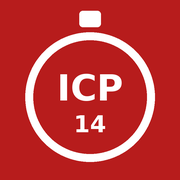
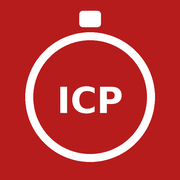
v1.1.0 : Prénom/Nom séparés, ajout de participant en cours de session, annonce 30 s au Luc Léger, retour à la session en fin d'épreuve, PDF simplifié, suppression des références Pompiers 14
Claude-Session: https://claude.ai/code/session_019JcrreiBWbQP3sJCEii8Fr

Changed region(s): [[0.3333, 0.3889, 0.6944, 0.75]]

diff --git a/app.js b/app.js
@@ -1,8 +1,8 @@
-/* ICP Pompiers 14 — web app (PWA) hors ligne
+/* ICP — Indicateurs de Condition Physique — web app (PWA) hors ligne
    Données stockées uniquement sur l'appareil (localStorage). */
 'use strict';
 
-const VERSION = '1.0.0';
+const VERSION = '1.1.0';
 const STORE_KEY = 'icp14.v1';
 
 /* ---------- Épreuves ---------- */
@@ -42,6 +42,9 @@ function load() {
       const d = JSON.parse(raw);
       d.settings = Object.assign({}, DEFAULT_SETTINGS, d.settings || {});
       d.sessions = d.sessions || [];
+      d.sessions.forEach(se => se.participants.forEach(p => {
+        if (p.prenom == null) { const parts = (p.nom || '').split(' '); p.prenom = parts.shift() || ''; p.nom = parts.join(' '); }
+      }));
       return d;
     }
   } catch (e) { console.error(e); }
@@ -212,7 +215,7 @@ function render() {
 /* ---------- Accueil ---------- */
 function home() {
   const list = [...DB.sessions].sort((a, b) => (b.date || '').localeCompare(a.date || '') || b.created - a.created);
-  return header('ICP Pompiers 14', null, `<button class="hbtn" onclick="A.go('settings')">Réglages</button>`) + `
+  return header('ICP', null, `<button class="hbtn" onclick="A.go('settings')">Réglages</button>`) + `
   <main>
     <button class="btn" onclick="A.go('editSession')">+ Nouvelle session</button>
     <div style="height:14px"></div>
@@ -245,7 +248,7 @@ function settings() {
       <label class="field">Augmentation par palier (km/h)<input id="st-inc" type="number" inputmode="decimal" step="0.1" value="${s.inc}"></label>
       <label class="field">Durée d'un palier (s)<input id="st-palier" type="number" inputmode="numeric" step="1" value="${s.palierSec}"></label>
       <div class="btns"><button class="btn" onclick="A.saveSettings()">Enregistrer</button>
-      <button class="btn grey" onclick="A.resetSettings()">Valeurs SDIS</button></div>
+      <button class="btn grey" onclick="A.resetSettings()">Valeurs par défaut</button></div>
     </div>
     <div class="card">
       <h2>Test du son</h2>
@@ -270,7 +273,7 @@ function saveSettings() {
   Object.assign(DB.settings, n); save(); toast('Réglages enregistrés'); render();
 }
 function resetSettings() {
-  if (!confirm('Revenir aux valeurs du règlement SDIS ?')) return;
+  if (!confirm('Revenir aux valeurs par défaut (règlement) ?')) return;
   DB.settings = { ...DEFAULT_SETTINGS }; save(); render();
 }
 function testSound() {
@@ -280,41 +283,77 @@ function testSound() {
 }
 
 /* ---------- Création / modification de session ---------- */
+function fullName(p) { return `${p.prenom || ''} ${p.nom || ''}`.trim(); }
+function shortName(p) { return `${p.prenom || ''}${p.nom ? ' ' + p.nom.trim().charAt(0).toUpperCase() + '.' : ''}`.trim(); }
+function cleanName(v) { return String(v || '').trim().replace(/\s+/g, ' '); }
 function editSession() {
   const s = VIEW.sid ? session() : null;
   const today = new Date().toISOString().slice(0, 10);
+  if (!VIEW.rows) {
+    VIEW.rows = s ? s.participants.map(p => ({ id: p.id, prenom: p.prenom, nom: p.nom })) : [];
+    VIEW.rows.push({ prenom: '', nom: '' });
+    VIEW.form = { date: s ? s.date : today, lieu: s ? s.lieu : '', evaluateur: s ? s.evaluateur : '' };
+  }
+  const f = VIEW.form;
   return header(s ? 'Modifier la session' : 'Nouvelle session', s ? `A.go('sessionView',{sid:'${s.id}'})` : "A.go('home')") + `
   <main><div class="card">
-    <label class="field">Date<input id="f-date" type="date" value="${s ? s.date : today}"></label>
-    <label class="field">Lieu<input id="f-lieu" type="text" value="${esc(s ? s.lieu : '')}" placeholder="ex. CIS Caen"></label>
-    <label class="field">Évaluateur<input id="f-eval" type="text" value="${esc(s ? s.evaluateur : '')}" placeholder="Prénom Nom"></label>
-    <label class="field">Participants (un « Prénom Nom » par ligne)
-      <textarea id="f-parts" placeholder="Jean Dupont&#10;Marie Martin">${esc(s ? s.participants.map(p => p.nom).join('\n') : '')}</textarea></label>
-    <button class="btn" onclick="A.saveSession()">${s ? 'Enregistrer' : 'Créer la session'}</button>
-    ${s ? `<div style="height:10px"></div><button class="btn grey" onclick="A.deleteSession()">Supprimer la session</button>` : ''}
-  </div></main>`;
+    <label class="field">Date<input type="date" value="${esc(f.date)}" oninput="A.setForm('date',this.value)"></label>
+    <label class="field">Lieu<input type="text" value="${esc(f.lieu)}" placeholder="ex. CIS Caen" oninput="A.setForm('lieu',this.value)"></label>
+    <label class="field">Évaluateur<input type="text" value="${esc(f.evaluateur)}" placeholder="Prénom Nom" oninput="A.setForm('evaluateur',this.value)"></label>
+  </div>
+  <div class="card">
+    <h2>Participants</h2>
+    <div class="row muted" style="font-size:13px;margin-bottom:4px"><span class="grow">Prénom</span><span class="grow">Nom</span><span style="width:40px"></span></div>
+    ${VIEW.rows.map((r, i) => `<div class="row" style="margin-bottom:8px">
+      <input class="pin grow" id="pr-${i}" type="text" autocapitalize="words" value="${esc(r.prenom)}" placeholder="Prénom" oninput="A.setRow(${i},'prenom',this.value)">
+      <input class="pin grow" id="nm-${i}" type="text" autocapitalize="words" value="${esc(r.nom)}" placeholder="Nom" oninput="A.setRow(${i},'nom',this.value)" onkeydown="if(event.key==='Enter'){event.preventDefault();A.addRow(${i})}">
+      <button class="delrow" onclick="A.delRow(${i})" aria-label="Supprimer">×</button></div>`).join('')}
+    <button class="btn secondary" onclick="A.addRow()">+ Ajouter un participant</button>
+  </div>
+  <button class="btn" onclick="A.saveSession()">${s ? 'Enregistrer' : 'Créer la session'}</button>
+  ${s ? `<div style="height:10px"></div><button class="btn grey" onclick="A.deleteSession()">Supprimer la session</button>` : ''}
+  </main>`;
 }
+function setForm(k, v) { VIEW.form[k] = v; }
+function setRow(i, k, v) { VIEW.rows[i][k] = v; }
+function addRow(after) {
+  const i = after == null ? VIEW.rows.length : after + 1;
+  VIEW.rows.splice(i, 0, { prenom: '', nom: '' }); render();
+  const el = $('#pr-' + i); if (el) el.focus();
+}
+function delRow(i) { VIEW.rows.splice(i, 1); if (!VIEW.rows.length) VIEW.rows.push({ prenom: '', nom: '' }); render(); }
 function saveSession() {
-  const names = $('#f-parts').value.split('\n').map(x => x.trim().replace(/\s+/g, ' ')).filter(Boolean);
-  if (!names.length) { toast('Ajoute au moins un participant'); return; }
+  const rows = VIEW.rows.map(r => ({ id: r.id, prenom: cleanName(r.prenom), nom: cleanName(r.nom) })).filter(r => r.prenom || r.nom);
+  if (!rows.length) { toast('Ajoute au moins un participant'); return; }
   let s = VIEW.sid ? session() : null;
-  if (!s) {
-    s = { id: uid(), created: Date.now(), participants: [], results: {} };
-    DB.sessions.push(s);
-  }
-  const old = s.participants;
-  const pool = [...old];
-  const parts = names.map(nom => {
-    const i = pool.findIndex(p => p.nom === nom);
-    if (i >= 0) return pool.splice(i, 1)[0];
-    return { id: uid(), nom };
-  });
-  const removedWithResults = pool.filter(p => EPREUVES.some(e => s.results[e.id] && s.results[e.id][p.id]));
-  if (removedWithResults.length && !confirm(`Supprimer aussi les résultats de : ${removedWithResults.map(p => p.nom).join(', ')} ?`)) return;
-  pool.forEach(p => EPREUVES.forEach(e => { if (s.results[e.id]) delete s.results[e.id][p.id]; }));
-  s.participants = parts;
-  s.date = $('#f-date').value; s.lieu = $('#f-lieu').value.trim(); s.evaluateur = $('#f-eval').value.trim();
+  const isNew = !s;
+  if (isNew) s = { id: uid(), created: Date.now(), participants: [], results: {} };
+  const keep = new Set(rows.filter(r => r.id).map(r => r.id));
+  const removed = s.participants.filter(p => !keep.has(p.id));
+  const removedWithResults = removed.filter(p => EPREUVES.some(e => s.results[e.id] && s.results[e.id][p.id]));
+  if (removedWithResults.length && !confirm(`Supprimer aussi les résultats de : ${removedWithResults.map(fullName).join(', ')} ?`)) return;
+  removed.forEach(p => EPREUVES.forEach(e => { if (s.results[e.id]) delete s.results[e.id][p.id]; }));
+  s.participants = rows.map(r => ({ id: r.id || uid(), prenom: r.prenom, nom: r.nom }));
+  s.date = VIEW.form.date; s.lieu = cleanName(VIEW.form.lieu); s.evaluateur = cleanName(VIEW.form.evaluateur);
+  if (isNew) DB.sessions.push(s);
   save(); go('sessionView', { sid: s.id });
+}
+/* Ajout rapide d'un participant à une session en cours */
+function addPersonSheet() {
+  openSheet(`<h3>Ajouter un participant</h3>
+    <label class="field">Prénom<input id="ap-prenom" type="text" autocapitalize="words"></label>
+    <label class="field">Nom<input id="ap-nom" type="text" autocapitalize="words" onkeydown="if(event.key==='Enter')A.addPerson()"></label>
+    <button class="btn" onclick="A.addPerson()">Ajouter</button>
+    <button class="btn grey" onclick="A.closeSheet()">Annuler</button>`);
+  setTimeout(() => { const el = $('#ap-prenom'); if (el) el.focus(); }, 50);
+}
+function addPerson() {
+  const prenom = cleanName($('#ap-prenom').value), nom = cleanName($('#ap-nom').value);
+  if (!prenom && !nom) { toast('Saisis au moins un prénom ou un nom'); return; }
+  const s = session(), p = { id: uid(), prenom, nom };
+  s.participants.push(p); save();
+  if (VIEW.sel) VIEW.sel[p.id] = true;
+  closeSheet(); toast(fullName(p) + ' ajouté(e)'); render();
 }
 function deleteSession() {
   if (!confirm('Supprimer définitivement cette session et tous ses résultats ?')) return;
@@ -340,6 +379,8 @@ function sessionView() {
     }).join('')}</div>
     <div style="height:14px"></div>
     <button class="btn" onclick="A.go('synth',{sid:'${s.id}'})">Synthèse et exports</button>
+    <div style="height:10px"></div>
+    <button class="btn secondary" onclick="A.addPersonSheet()">+ Ajouter un participant (${n})</button>
   </main>`;
 }
 
@@ -372,6 +413,10 @@ function pickWave() {
   const sel = VIEW.sel, nb = Object.values(sel).filter(Boolean).length;
   return header(e.nom + ' · vague', `A.go('consigne',{sid:'${s.id}',ep:'${e.id}'})`) + `
   <main>
+    ${s.participants.every(p => r[p.id]) ? `<div class="card" style="background:#e8f5e9">
+      <b>✓ Épreuve terminée pour tous les participants</b>
+      <div style="height:10px"></div>
+      <button class="btn green" onclick="A.go('sessionView',{sid:'${s.id}'})">Retour à l'accueil de la session</button></div>` : ''}
     <div class="row between" style="margin-bottom:8px">
       <span class="muted">${nb} sélectionné${nb > 1 ? 's' : ''}</span>
       <span><button class="btn small grey" onclick="A.selAll(true)">Tous</button>
@@ -381,11 +426,12 @@ function pickWave() {
       const rr = r[p.id];
       return `<div class="pick">
         <input type="checkbox" ${sel[p.id] ? 'checked' : ''} onchange="A.toggleSel('${p.id}',this.checked)">
-        <div class="grow" onclick="A.toggleSel('${p.id}')"><b>${esc(p.nom)}</b>
+        <div class="grow" onclick="A.toggleSel('${p.id}')"><b>${esc(fullName(p))}</b>
         ${rr ? `<div><span class="tag ${rr.status ? 'st' : 'ok'}">${esc(resultLabel(e.id, rr))}</span></div>` : ''}</div>
         <button class="stbtn" onclick="A.statusSheet('${p.id}')">Statut</button>
       </div>`;
-    }).join('')}</div>
+    }).join('')}
+      <button class="btn small secondary" style="margin-top:10px" onclick="A.addPersonSheet()">+ Ajouter un participant</button></div>
     <button class="btn" ${nb ? '' : 'disabled'} onclick="A.startWave()">${e.mode === 'luc' || e.mode === 'chrono' ? 'Démarrer' : 'Saisir les résultats'} (${nb})</button>
   </main>`;
 }
@@ -395,7 +441,7 @@ function toggleSel(pid, val) {
 function selAll(v) { Object.keys(VIEW.sel).forEach(k => VIEW.sel[k] = v); render(); }
 function statusSheet(pid, ep = VIEW.ep, after) {
   const s = session(), p = s.participants.find(x => x.id === pid);
-  openSheet(`<h3>${esc(p.nom)} · ${EP[ep].nom}</h3>
+  openSheet(`<h3>${esc(fullName(p))} · ${EP[ep].nom}</h3>
     ${Object.entries(STATUTS).map(([k, l]) => `<button class="btn secondary" onclick="A.setStatus('${pid}','${ep}','${k}')">${l}</button>`).join('')}
     <button class="btn grey" onclick="A.setStatus('${pid}','${ep}',null)">Effacer le résultat</button>
     <button class="btn grey" onclick="A.closeSheet()">Annuler</button>`);
@@ -429,7 +475,10 @@ function lucStart(ids) {
   for (let k = cfg.countdown; k >= 1; k--) events.push({ at: t0 - k, kind: 'count', n: k });
   events.push({ at: t0, kind: 'start' });
   buildBeeps(cfg).forEach(b => events.push({ at: t0 + b.t, kind: 'beep' }));
-  for (let p = 1; p <= 30; p++) events.push({ at: t0 + palierStart(p, cfg), kind: 'palier', n: p });
+  for (let p = 1; p <= 30; p++) {
+    events.push({ at: t0 + palierStart(p, cfg), kind: 'palier', n: p });
+    if (cfg.palierSec > 30) events.push({ at: t0 + palierStart(p, cfg) + 30, kind: 'half', n: p });
+  }
   events.sort((a, b) => a.at - b.at);
   RUN = { type: 'luc', cfg, t0, events, idx: 0, ids, stops: {}, undo: [], timer: null, raf: null, sid: VIEW.sid, ep: 'luc' };
   if ('speechSynthesis' in window) speechSynthesis.cancel();
@@ -453,8 +502,9 @@ function lucTick() {
       case 'beep':
         tone(ev.at, 880, 0.2); break;
       case 'palier':
-        tone(ev.at, 523, 0.09, 0.7, 'sine'); tone(ev.at + 0.13, 659, 0.12, 0.7, 'sine');
-        setTimeout(() => speak('Palier ' + ev.n), lead + 280); break;
+        setTimeout(() => speak('Palier ' + ev.n), lead); break;
+      case 'half':
+        setTimeout(() => speak('30 secondes'), lead); break;
     }
   }
 }
@@ -516,9 +566,12 @@ function finishRun() {
     openSheet(`<h3>Vague terminée</h3>
       <div class="card" style="box-shadow:none;padding:0">${ids.map(id => {
         const p = s.participants.find(x => x.id === id);
-        return `<div class="list-item"><span class="grow">${esc(p.nom)}</span><b>${esc(resultLabel(ep, r[id]))}</b></div>`;
+        return `<div class="list-item"><span class="grow">${esc(fullName(p))}</span><b>${esc(resultLabel(ep, r[id]))}</b></div>`;
       }).join('')}</div>
-      <button class="btn" onclick="A.closeSheet()">OK</button>`);
+      ${s.participants.every(p => r[p.id])
+        ? `<button class="btn green" onclick="A.closeSheet();A.go('sessionView',{sid:'${sid}'})">Retour à l'accueil de la session</button>
+           <button class="btn grey" onclick="A.closeSheet()">Rester sur l'épreuve</button>`
+        : `<button class="btn" onclick="A.closeSheet()">Vague suivante</button>`}`);
   }, type === 'luc' ? 700 : 0);
 }
 function abortRun() {
@@ -534,7 +587,7 @@ function runnersHtml(stopFn) {
   return `<div class="runners">${VIEW.ids.map(id => {
     const p = s.participants.find(x => x.id === id), st = r[id];
     const lab = st ? (VIEW.ep === 'luc' ? `P${st.palier} · ${fmtTime(st.temps)}` : fmtTime(st.temps)) : '';
-    return `<button class="runner ${st ? 'stopped' : ''}" onclick="A.${stopFn}('${id}')">${esc(p.nom)}${st ? `<small>${lab}</small>` : ''}</button>`;
+    return `<button class="runner ${st ? 'stopped' : ''}" onclick="A.${stopFn}('${id}')">${esc(shortName(p))}${st ? `<small>${lab}</small>` : ''}</button>`;
   }).join('')}</div>`;
 }
 function lucRun() {
@@ -595,7 +648,7 @@ function countEntry() {
     <p class="muted">Nombre maximal de répétitions, saisi à la fin.</p>
     <div class="card">${VIEW.ids.map(id => {
       const p = s.participants.find(x => x.id === id);
-      return `<div class="list-item"><div class="grow"><b>${esc(p.nom)}</b><br>
+      return `<div class="list-item"><div class="grow"><b>${esc(fullName(p))}</b><br>
         <button class="stbtn" onclick="A.statusSheet('${id}')">Statut…</button></div>
         <div class="counter"><button onclick="A.inc('${id}',-1)">−</button>
         <input id="c-${id}" type="number" inputmode="numeric" min="0" value="${VIEW.vals[id]}" oninput="A.setVal('${id}',this.value)">
@@ -632,7 +685,7 @@ function lengthEntry() {
     <p class="muted">En cm, à 0,5 cm près, à partir de 0. 2 essais max, le meilleur est retenu.</p>
     <div class="card">${VIEW.ids.map(id => {
       const p = s.participants.find(x => x.id === id);
-      return `<div class="list-item essai"><div class="grow"><b>${esc(p.nom)}</b><br>
+      return `<div class="list-item essai"><div class="grow"><b>${esc(fullName(p))}</b><br>
         <button class="stbtn" onclick="A.statusSheet('${id}')">Statut…</button></div>
         <input type="text" inputmode="decimal" placeholder="Essai 1" value="${VIEW.vals[id].e1}" oninput="A.setEssai('${id}','e1',this.value)">
         <input type="text" inputmode="decimal" placeholder="Essai 2" value="${VIEW.vals[id].e2}" oninput="A.setEssai('${id}','e2',this.value)">
@@ -682,7 +735,7 @@ function synth() {
     <p class="muted">${esc(fmtDate(s.date))}${s.lieu ? ' · ' + esc(s.lieu) : ''}${s.evaluateur ? ' · Évaluateur : ' + esc(s.evaluateur) : ''}<br>Touchez une case pour la corriger.</p>
     <div class="table-wrap"><table class="synth">
       <tr><th>Participant</th><th>Luc Léger<br><span class="muted">palier · temps · VMA</span></th>${EPREUVES.slice(1).map(e => `<th>${e.nom}</th>`).join('')}</tr>
-      ${s.participants.map(p => `<tr><td>${esc(p.nom)}</td>${EPREUVES.map(e => cell(e.id, p.id)).join('')}</tr>`).join('')}
+      ${s.participants.map(p => `<tr><td>${esc(fullName(p))}</td>${EPREUVES.map(e => cell(e.id, p.id)).join('')}</tr>`).join('')}
     </table></div>
     <div style="height:14px"></div>
     <div class="btns">
@@ -701,7 +754,7 @@ function editCell(ep, pid) {
   else if (e.mode === 'chrono') fields = `<label class="field">Temps (min:s)<input id="m-a" type="text" inputmode="decimal" value="${r.temps != null ? fmtTime(r.temps) : ''}" placeholder="ex. 2:35"></label>`;
   else fields = `<label class="field">Essai 1 (cm)<input id="m-a" type="text" inputmode="decimal" value="${r.e1 != null ? num(r.e1) : ''}"></label>
       <label class="field">Essai 2 (cm)<input id="m-b" type="text" inputmode="decimal" value="${r.e2 != null ? num(r.e2) : ''}"></label>`;
-  openSheet(`<h3>${esc(p.nom)} · ${e.nom}</h3>${fields}
+  openSheet(`<h3>${esc(fullName(p))} · ${e.nom}</h3>${fields}
     <button class="btn" onclick="A.saveCell('${ep}','${pid}')">Enregistrer</button>
     <div style="height:10px"></div>
     <div class="btns">${Object.entries(STATUTS).map(([k, l]) => `<button class="btn secondary small" style="width:100%" onclick="A.setStatus('${pid}','${ep}','${k}')">${l}</button>`).join('')}
@@ -732,20 +785,22 @@ function saveCell(ep, pid) {
 }
 
 /* ---------- Exports ---------- */
-function exportRows(s) {
-  const head = ['Participant', 'Luc Léger palier', 'Luc Léger temps', 'Luc Léger VMA (km/h)', 'Pompes', 'Tractions',
-    'Killy (min:s)', 'Gainage (min:s)', 'Souplesse essai 1 (cm)', 'Souplesse essai 2 (cm)', 'Souplesse meilleur (cm)'];
+function exportRows(s, pdf = false) {
+  const head = ['Prénom', 'Nom', 'Luc Léger palier', 'Luc Léger temps', 'Luc Léger VMA (km/h)', 'Pompes', 'Tractions',
+    'Killy (min:s)', 'Gainage (min:s)'].concat(pdf ? ['Souplesse (cm)'] : ['Souplesse essai 1 (cm)', 'Souplesse essai 2 (cm)', 'Souplesse meilleur (cm)']);
   const rows = s.participants.map(p => {
     const g = ep => (s.results[ep] || {})[p.id];
     const st = r => r && r.status ? STATUTS[r.status] : null;
     const L = g('luc'), P = g('pompes'), T = g('tractions'), K = g('killy'), G = g('gainage'), S = g('souplesse');
+    const soup = pdf ? [st(S) ?? (S ? num(S.best) : '')]
+      : [st(S) ?? (S && S.e1 != null ? num(S.e1) : ''), S && !S.status && S.e2 != null ? num(S.e2) : '', S && !S.status ? num(S.best) : ''];
     return [
-      p.nom,
-      st(L) ?? (L ? L.palier : ''), L && !L.status ? fmtTime(L.temps) : '', L && !L.status ? num(L.vma) : '',
+      p.prenom, p.nom,
+      st(L) ?? (L ? L.palier : ''), L && !L.status && L.temps != null ? fmtTime(L.temps) : '', L && !L.status ? num(L.vma) : '',
       st(P) ?? (P ? P.value : ''), st(T) ?? (T ? T.value : ''),
       st(K) ?? (K ? fmtTime(K.temps) : ''), st(G) ?? (G ? fmtTime(G.temps) : ''),
-      st(S) ?? (S && S.e1 != null ? num(S.e1) : ''), S && !S.status && S.e2 != null ? num(S.e2) : '', S && !S.status ? num(S.best) : '',
-    ].map(x => String(x));
+      ...soup,
+    ].map(x => String(x ?? ''));
   });
   return { head, rows };
 }
@@ -771,22 +826,21 @@ function exportCSV() {
   shareFile(new Blob([csv], { type: 'text/csv;charset=utf-8' }), fileBase(s) + '.csv');
 }
 function exportPDF() {
-  const s = session(), { head, rows } = exportRows(s);
+  const s = session(), { rows } = exportRows(s, true);
   const { jsPDF } = window.jspdf;
   const doc = new jsPDF({ orientation: 'landscape', unit: 'mm', format: 'a4' });
-  doc.setFontSize(16); doc.text('Indicateurs de Condition Physique — SDIS 14', 14, 15);
+  doc.setFontSize(16); doc.text('Indicateurs de Condition Physique', 14, 15);
   doc.setFontSize(11);
   doc.text(`Session du ${fmtDate(s.date)}${s.lieu ? ' — ' + s.lieu : ''}${s.evaluateur ? '   ·   Évaluateur : ' + s.evaluateur : ''}`, 14, 23);
-  const shortHead = ['Participant', 'Luc L.\npalier', 'Luc L.\ntemps', 'VMA\nkm/h', 'Pompes', 'Tractions', 'Killy', 'Gainage', 'Soupl.\nessai 1', 'Soupl.\nessai 2', 'Soupl.\nmeilleur'];
+  const shortHead = ['Prénom', 'Nom', 'Luc Léger\npalier', 'Luc Léger\ntemps', 'VMA\nkm/h', 'Pompes', 'Tractions', 'Killy', 'Gainage', 'Souplesse\n(cm)'];
   doc.autoTable({
     head: [shortHead], body: rows, startY: 29, theme: 'grid',
     styles: { fontSize: 9, halign: 'center', valign: 'middle', cellPadding: 2 },
     headStyles: { fillColor: [183, 28, 28], textColor: 255 },
-    columnStyles: { 0: { halign: 'left', fontStyle: 'bold', cellWidth: 48 } },
+    columnStyles: { 0: { halign: 'left', fontStyle: 'bold' }, 1: { halign: 'left', fontStyle: 'bold' } },
   });
   const y = doc.lastAutoTable.finalY + 10;
   doc.setFontSize(9);
-  doc.text(`Luc Léger : navette ${num(DB.settings.distance)} m, échauffement ${num(DB.settings.warmupSec / 60)} min à ${num(DB.settings.warmupSpeed)} km/h, palier 1 à ${num(DB.settings.v1)} km/h, +${num(DB.settings.inc)} km/h par palier.`, 14, y);
   doc.text('Signature de l’évaluateur :', 200, y + 8);
   shareFile(doc.output('blob'), fileBase(s) + '.pdf');
 }
@@ -799,7 +853,7 @@ function openSheet(html) {
 function closeSheet() { $('#modal').classList.add('hidden'); $('#modal').innerHTML = ''; }
 
 /* ---------- API globale ---------- */
-window.A = { go, saveSettings, resetSettings, testSound, saveSession, deleteSession, toggleSel, selAll, statusSheet,
+window.A = { go, setForm, setRow, addRow, delRow, addPersonSheet, addPerson, saveSettings, resetSettings, testSound, saveSession, deleteSession, toggleSel, selAll, statusSheet,
   setStatus, startWave, lucStop, lucUndo, chronoBegin, chronoStop, abortRun, inc, setVal, saveCounts, setEssai,
   saveLengths, editCell, saveCell, exportCSV, exportPDF, closeSheet };
 window._icp = { buildBeeps, palierAt, speedOf, DB: () => DB };

diff --git a/index.html b/index.html
@@ -3,11 +3,11 @@
 <head>
   <meta charset="utf-8">
   <meta name="viewport" content="width=device-width, initial-scale=1, viewport-fit=cover, user-scalable=no">
-  <title>ICP Pompiers 14</title>
+  <title>ICP</title>
   <meta name="apple-mobile-web-app-capable" content="yes">
   <meta name="mobile-web-app-capable" content="yes">
   <meta name="apple-mobile-web-app-status-bar-style" content="black-translucent">
-  <meta name="apple-mobile-web-app-title" content="ICP 14">
+  <meta name="apple-mobile-web-app-title" content="ICP">
   <meta name="theme-color" content="#b71c1c">
   <link rel="manifest" href="manifest.webmanifest">
   <link rel="apple-touch-icon" href="icons/icon-180.png">

diff --git a/style.css b/style.css
@@ -116,3 +116,5 @@ table.synth td.cell.todo { color: #aaa; }
 .toast.hidden { display: none; }
 .warn { background: #ffebee; color: var(--red-dark); padding: 10px 12px; border-radius: 10px; font-size: 14px; }
 .empty { text-align: center; color: var(--muted); padding: 30px 10px; }
+.pin { min-width: 0; padding: 11px 10px; border: 1px solid var(--line); border-radius: 10px; font-size: 17px; background: #fff; }
+.delrow { width: 40px; height: 44px; border: 0; background: none; color: var(--muted); font-size: 26px; }

diff --git a/sw.js b/sw.js
@@ -1,6 +1,6 @@
 /* Service worker : met l'appli en cache pour un fonctionnement hors ligne.
    Pense à changer CACHE à chaque nouvelle version pour forcer la mise à jour. */
-const CACHE = 'icp14-v1.0.0';
+const CACHE = 'icp-v1.1.0';
 const FILES = [
   './', './index.html', './style.css', './app.js', './manifest.webmanifest',
   './vendor/jspdf.umd.min.js', './vendor/jspdf.plugin.autotable.min.js',

diff --git a/LISEZMOI.md b/LISEZMOI.md
@@ -1,4 +1,4 @@
-# ICP Pompiers 14 — web app (PWA)
+# ICP — web app (PWA)
 
 Appli hors ligne pour relever les Indicateurs de Condition Physique (Luc Léger, pompes, tractions, Killy, gainage, souplesse).
 Toutes les données restent sur l'iPhone (stockage local du navigateur). Rien n'est envoyé en ligne.
@@ -29,7 +29,7 @@ Toutes les données restent sur l'iPhone (stockage local du navigateur). Rien n'
 ## Mettre à jour l'appli
 
 1. Remplace les fichiers modifiés dans le dépôt GitHub.
-2. Dans `sw.js`, change la ligne `const CACHE = 'icp14-v1.0.0';` (ex. `v1.0.1`) pour forcer la mise à jour.
+2. Dans `sw.js`, change la ligne `const CACHE = 'icp-v1.1.0';` (ex. `v1.1.1`) pour forcer la mise à jour.
 3. Sur l'iPhone, ouvre l'appli avec du réseau, ferme-la puis rouvre-la.
 
 Les données enregistrées ne sont pas touchées par une mise à jour.
